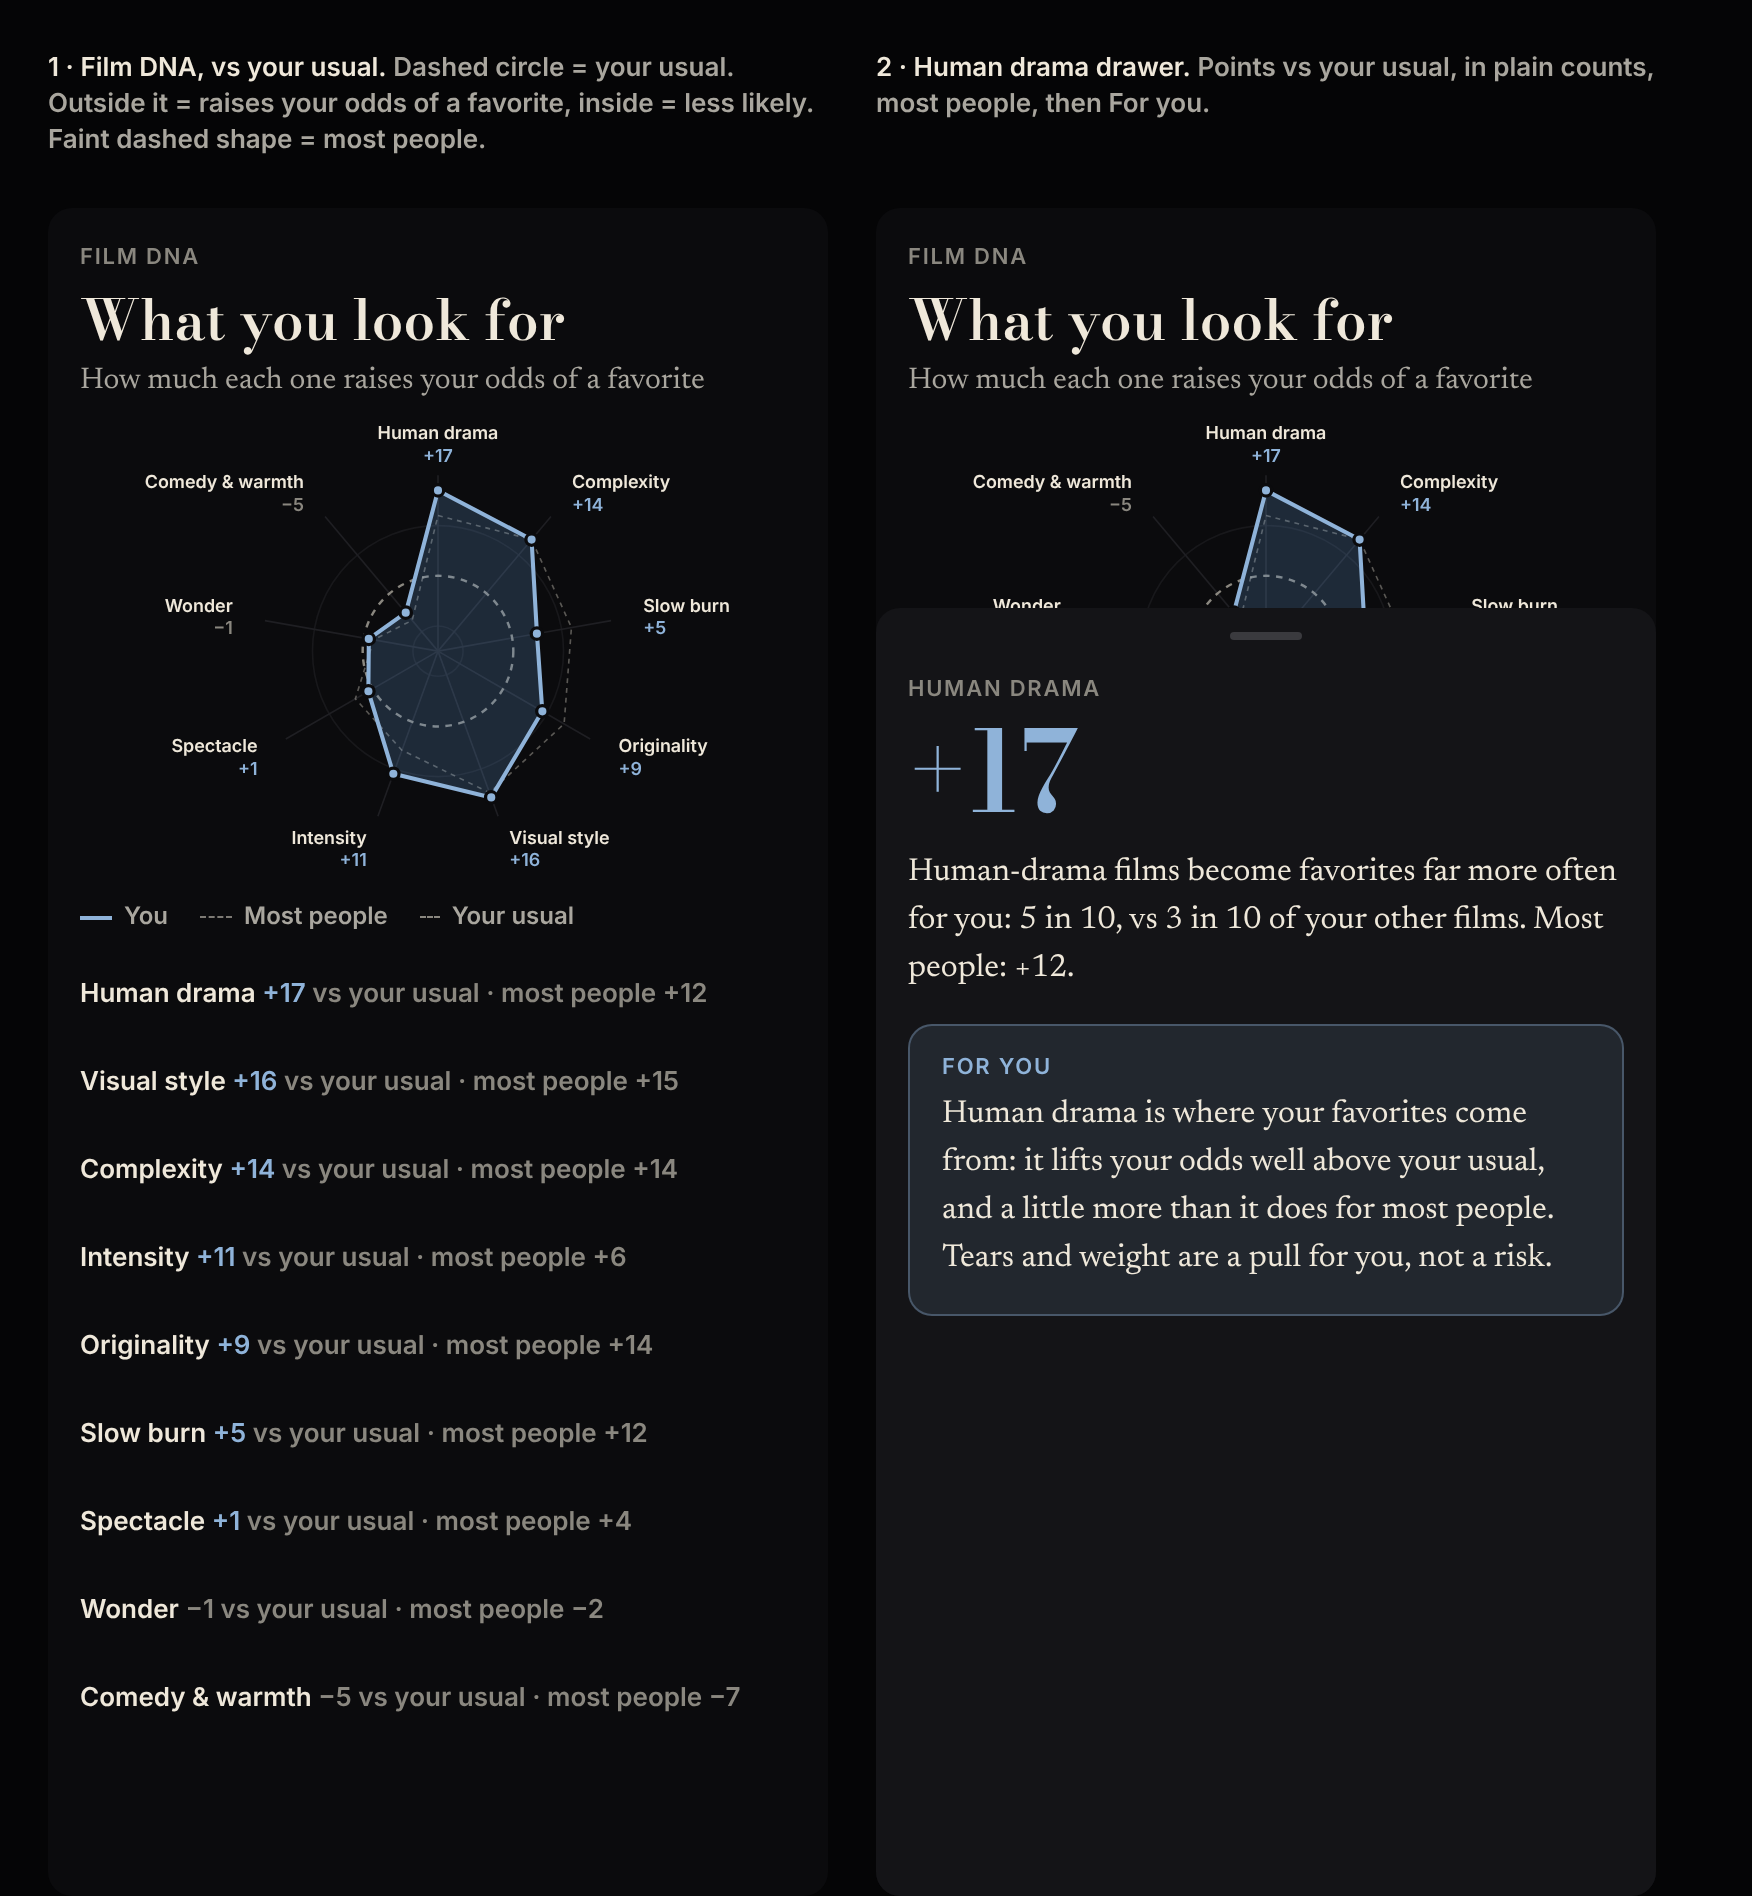
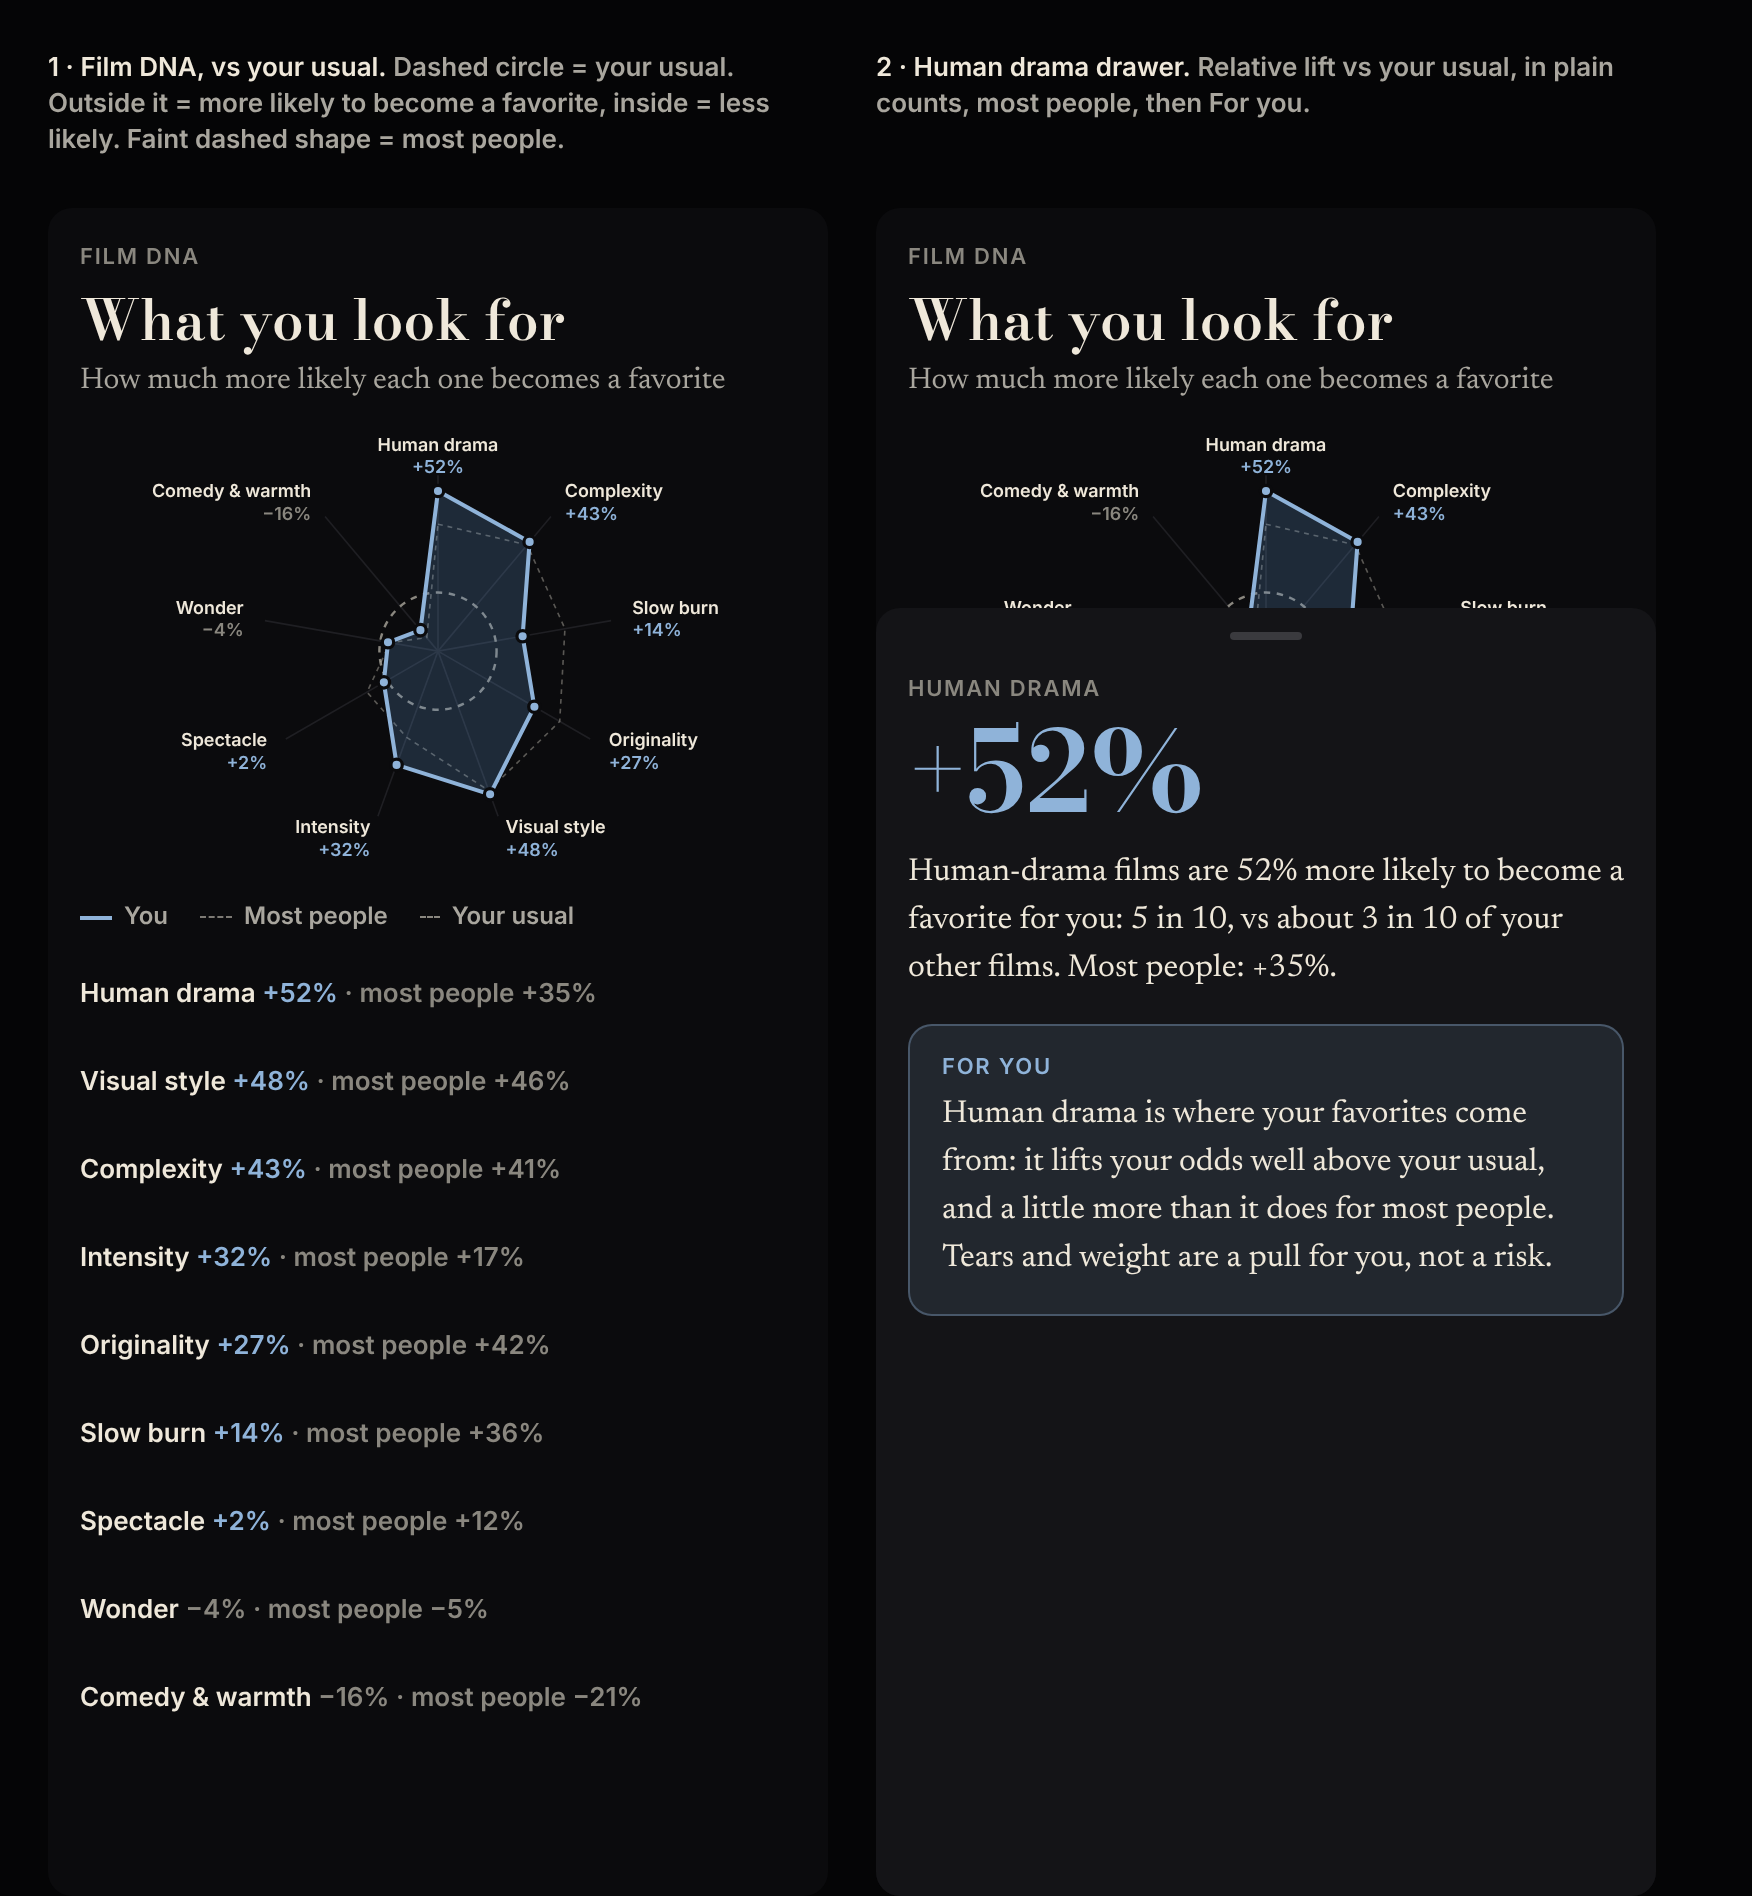
Mock: Film DNA radar in relative percent (b36)
Claude-Session: https://claude.ai/code/session_013WRDCFXH8nihP92apJAVW7

diff --git a/mockups/journeys/b36-dna-radar-vs-usual.html b/mockups/journeys/b36-dna-radar-vs-usual.html
@@ -19,27 +19,27 @@ h1{font:600 28px/32px Bodoni;margin:8px 0 4px}
 .big{font:600 56px/60px Bodoni;color:#8fb3d9;margin:4px 0 8px}
 .rd{font:400 16px/24px News;margin:0 0 8px}.rd.m{color:#a9a69e}
 </style></head><body>
-<div class="col"><p class="cap"><b>1 · Film DNA, vs your usual.</b> Dashed circle = your usual. Outside it = raises your odds of a favorite, inside = less likely. Faint dashed shape = most people.</p><div class="ph" id="p1"></div></div>
-<div class="col"><p class="cap"><b>2 · Human drama drawer.</b> Points vs your usual, in plain counts, most people, then For you.</p><div class="ph" id="p2"></div></div>
+<div class="col"><p class="cap"><b>1 · Film DNA, vs your usual.</b> Dashed circle = your usual. Outside it = more likely to become a favorite, inside = less likely. Faint dashed shape = most people.</p><div class="ph" id="p1"></div></div>
+<div class="col"><p class="cap"><b>2 · Human drama drawer.</b> Relative lift vs your usual, in plain counts, most people, then For you.</p><div class="ph" id="p2"></div></div>
 <script>
-const S=[["Human drama",17,12],["Complexity",14,14],["Slow burn",5,12],["Originality",9,14],["Visual style",16,15],["Intensity",11,6],["Spectacle",1,4],["Wonder",-1,-2],["Comedy & warmth",-5,-7]];
-const LO=-15,HI=20,R=108,cx=180,cy=150;
-const sg=v=>v>0?'+'+v:v<0?'\u2212'+(-v):'0';
+const S=[["Human drama",52,35],["Complexity",43,41],["Slow burn",14,36],["Originality",27,42],["Visual style",48,46],["Intensity",32,17],["Spectacle",2,12],["Wonder",-4,-5],["Comedy & warmth",-16,-21]];
+const LO=-30,HI=60,R=108,cx=180,cy=150;
+const sg=v=>v>0?'+'+v+'%':v<0?'\u2212'+(-v)+'%':'0%';
 const pt=(i,v)=>{const a=-Math.PI/2+i*2*Math.PI/9,r=R*(v-LO)/(HI-LO);return[cx+r*Math.cos(a),cy+r*Math.sin(a)]};
 const poly=f=>S.map((s,i)=>pt(i,f(s)).map(x=>x.toFixed(1)).join(',')).join(' ');
 let g='';
-[-10,10].forEach(v=>g+=`<circle cx="${cx}" cy="${cy}" r="${R*(v-LO)/(HI-LO)}" fill="none" stroke="#18181b" stroke-width="1"/>`);
+[].forEach(v=>g+=`<circle cx="${cx}" cy="${cy}" r="${R*(v-LO)/(HI-LO)}" fill="none" stroke="#18181b" stroke-width="1"/>`);
 S.forEach((s,i)=>{const[x,y]=pt(i,HI);g+=`<line x1="${cx}" y1="${cy}" x2="${x}" y2="${y}" stroke="#1f1f23"/>`;
- const[lx,ly]=pt(i,HI+6.5);const an=Math.abs(lx-cx)<8?'middle':lx>cx?'start':'end';
+ const[lx,ly]=pt(i,HI+11);const an=Math.abs(lx-cx)<8?'middle':lx>cx?'start':'end';
  g+=`<text x="${lx}" y="${ly-2}" text-anchor="${an}" font-family="Inter" font-weight="600" font-size="11" fill="#efe8da">${s[0].replace('&','&amp;')}</text><text x="${lx}" y="${ly+12}" text-anchor="${an}" font-family="Inter" font-weight="600" font-size="11" fill="${s[1]<0?'#8a877f':'#8fb3d9'}">${sg(s[1])}</text>`});
 const rr=R*(0-LO)/(HI-LO);g+=`<circle cx="${cx}" cy="${cy}" r="${rr}" fill="none" stroke="#8a877f" stroke-width="1.5" stroke-dasharray="4 4"/>`;
 g+=`<polygon points="${poly(s=>s[2])}" fill="none" stroke="rgba(239,232,218,.35)" stroke-width="1" stroke-dasharray="3 3" stroke-linejoin="round"/>`;
 g+=`<polygon points="${poly(s=>s[1])}" fill="rgba(91,143,196,.24)" stroke="#8fb3d9" stroke-width="2.5" stroke-linejoin="round"/>`;
 S.forEach((s,i)=>{const[x,y]=pt(i,s[1]);g+=`<circle cx="${x}" cy="${y}" r="3.5" fill="#8fb3d9" stroke="#0b0b0d" stroke-width="2"/>`});
 const svg=`<svg viewBox="-40 8 440 290" width="358" height="236">${g}</svg>`;
-const head=`<div class="lab">Film DNA</div><h1>What you look for</h1><p class="sub">How much each one raises your odds of a favorite</p>`;
+const head=`<div class="lab">Film DNA</div><h1>What you look for</h1><p class="sub">How much more likely each one becomes a favorite</p>`;
 const key=`<div class="key"><span><i></i>You</span><span><i class="d" style="opacity:.5"></i>Most people</span><span><i class="d" style="border-color:#8a877f;width:10px;border-radius:0"></i>Your usual</span></div>`;
-const rows=[...S].sort((a,b)=>b[1]-a[1]).map(s=>`<div class="li"><div class="t">${s[0]} <b style="${s[1]<0?'color:#8a877f':''}">${sg(s[1])}</b> <span>vs your usual · most people ${sg(s[2])}</span></div></div>`).join('');
+const rows=[...S].sort((a,b)=>b[1]-a[1]).map(s=>`<div class="li"><div class="t">${s[0]} <b style="${s[1]<0?'color:#8a877f':''}">${sg(s[1])}</b> <span>· most people ${sg(s[2])}</span></div></div>`).join('');
 document.getElementById('p1').innerHTML=head+svg+key+'<div style="height:8px"></div>'+rows;
-document.getElementById('p2').innerHTML=head+svg+key+`<div class="dr"><div class="grab"></div><div class="lab">Human drama</div><div class="big">+17</div><p class="rd">Human-drama films become favorites far more often for you: 5 in 10, vs 3 in 10 of your other films. Most people: +12.</p><div class="fy"><div class="l">For you</div><p>Human drama is where your favorites come from: it lifts your odds well above your usual, and a little more than it does for most people. Tears and weight are a pull for you, not a risk.</p></div></div>`;
+document.getElementById('p2').innerHTML=head+svg+key+`<div class="dr"><div class="grab"></div><div class="lab">Human drama</div><div class="big">+52%</div><p class="rd">Human-drama films are 52% more likely to become a favorite for you: 5 in 10, vs about 3 in 10 of your other films. Most people: +35%.</p><div class="fy"><div class="l">For you</div><p>Human drama is where your favorites come from: it lifts your odds well above your usual, and a little more than it does for most people. Tears and weight are a pull for you, not a risk.</p></div></div>`;
 </script></body></html>
